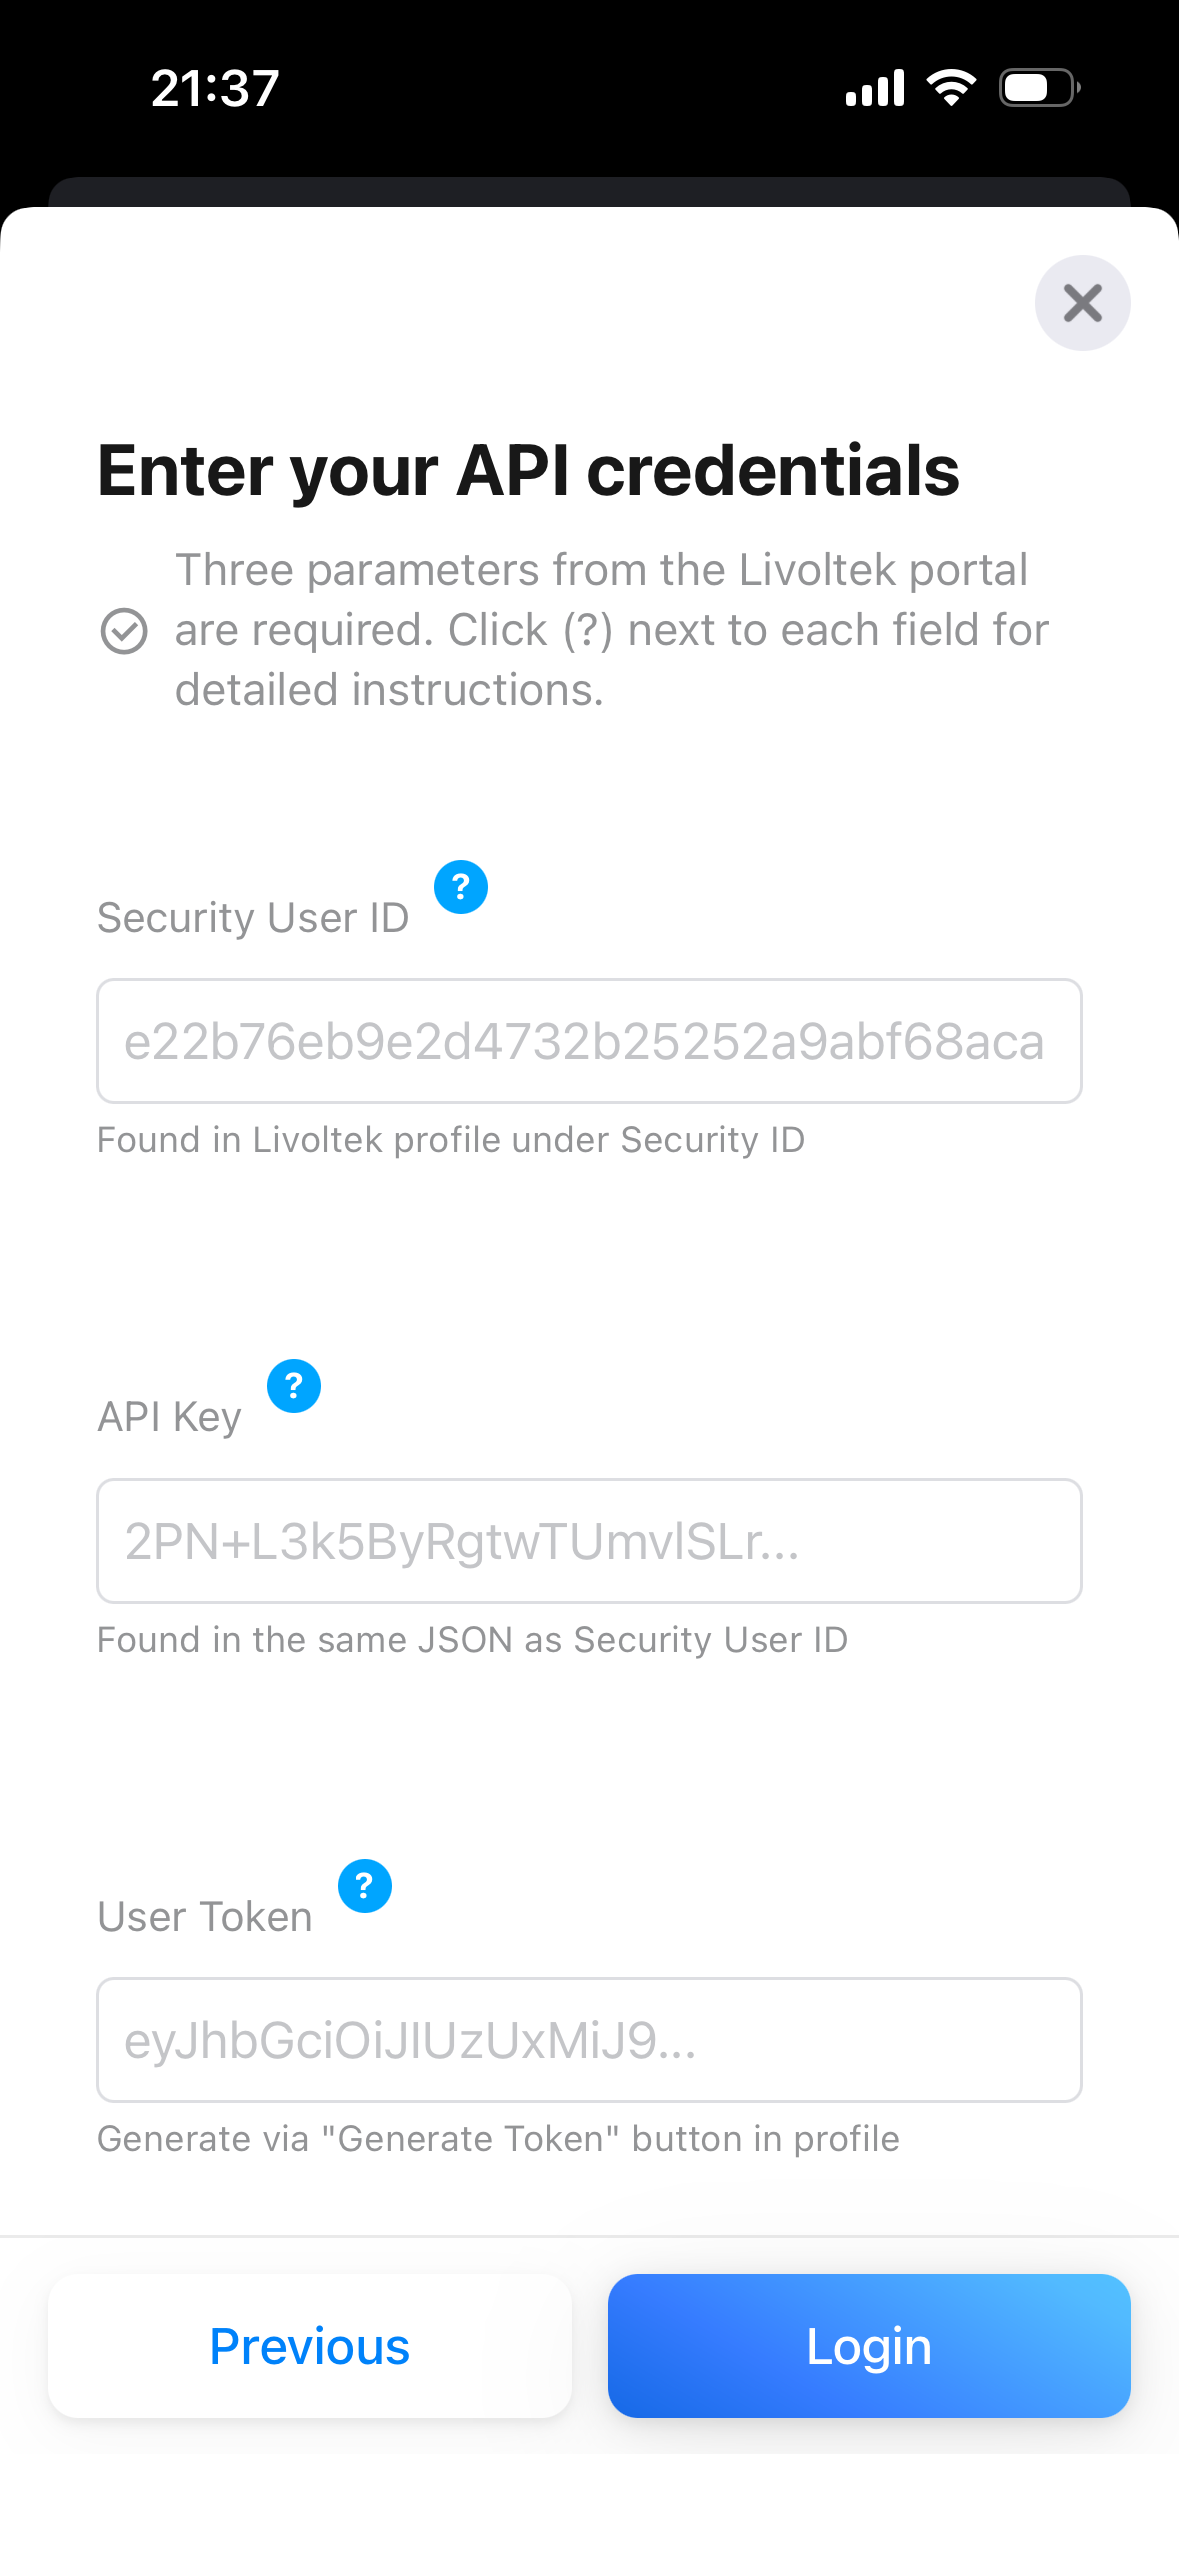
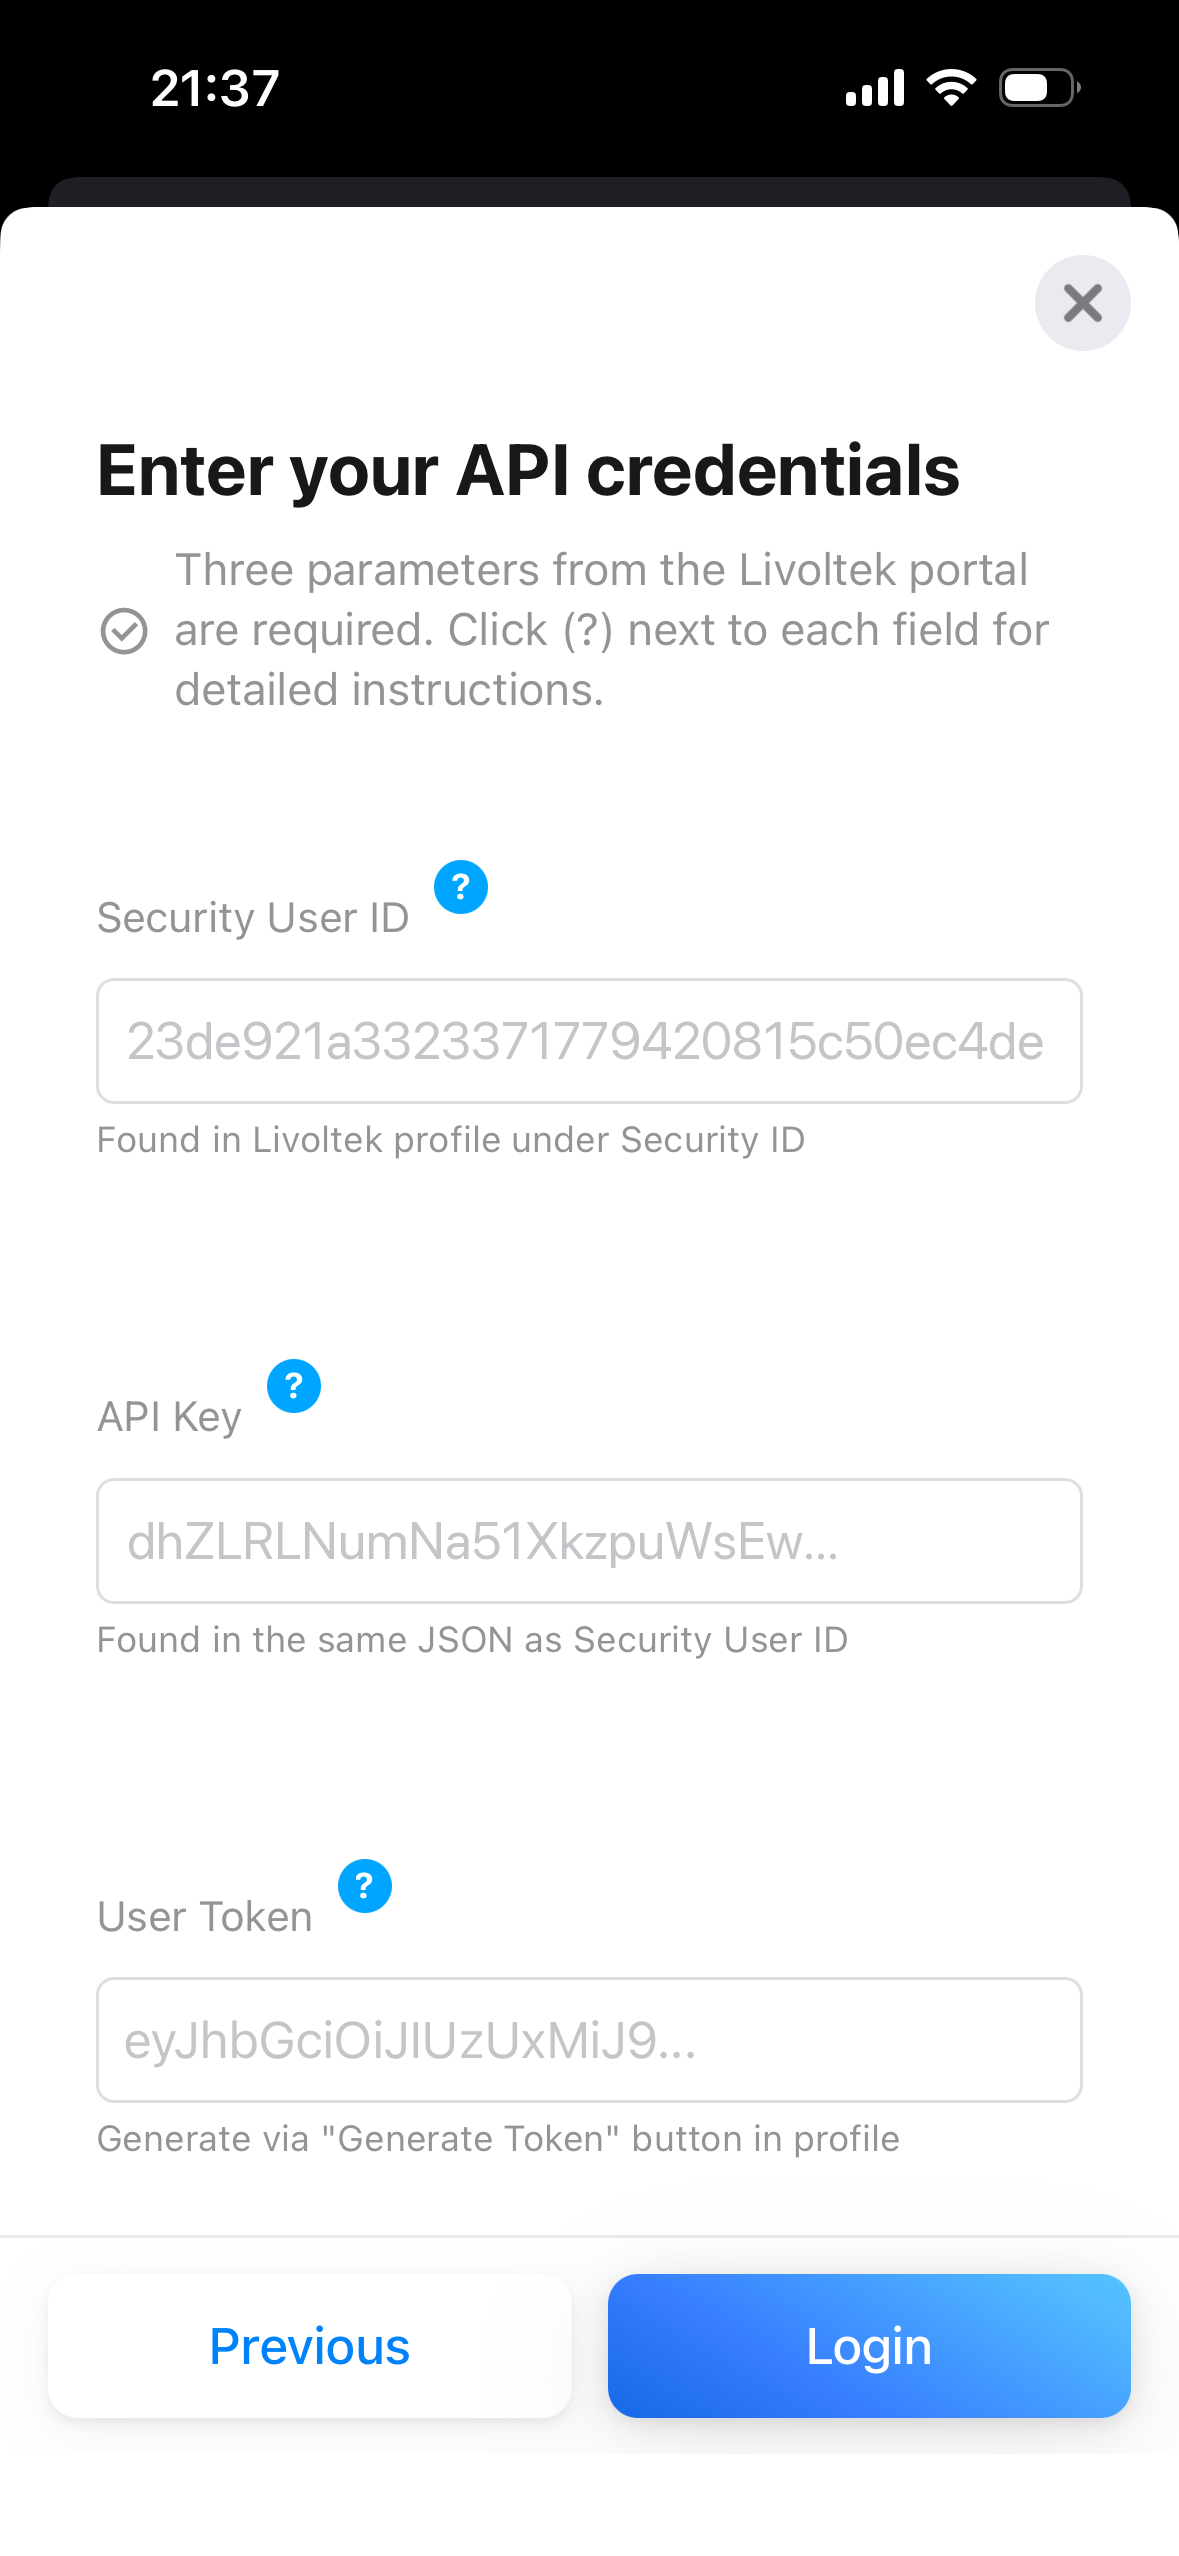
Normalize API key line ending, validate login token, remove real credentials
- The Livoltek API accepts the key only with a CRLF ending; normalizeKey()
  rebuilds the ending however it was pasted (\n, \r\n, \r, escaped or none)
- Login returns HTTP 200 + "SUCCESS" even for bad credentials with an error
  text in place of the token ("null", "user not exit"); only a JWT-shaped
  token is accepted now
- Replace real secuid/key placeholders in the pairing form and screenshot
  with fake values of the same format; update key instructions
- Add tools/peek-api.mjs to dump and record raw API responses

Changed region(s): [[0.1221, 0.4018, 0.8855, 0.4327], [0.0916, 0.5872, 0.6718, 0.6182]]

diff --git a/test/LivoltekAPI.test.ts b/test/LivoltekAPI.test.ts
@@ -1,13 +1,13 @@
 import { afterEach, test } from 'node:test';
 import assert from 'node:assert/strict';
-import { LivoltekAPI, Logger } from '../lib/LivoltekAPI';
+import { LivoltekAPI, Logger, normalizeKey } from '../lib/LivoltekAPI';
 
 const USER_TOKEN = 'secret-user-token';
 const KEY = 'secret-key';
 
 function makeJwt(): string {
-  const payload = Buffer.from(JSON.stringify({ exp: Math.floor(Date.now() / 1000) + 3600 })).toString('base64');
-  return `header.${payload}.signature`;
+  const payload = Buffer.from(JSON.stringify({ exp: Math.floor(Date.now() / 1000) + 3600 })).toString('base64url');
+  return `eyJhbGciOiJIUzI1NiJ9.${payload}.c2lnbmF0dXJl`;
 }
 
 const ACCESS_TOKEN = makeJwt();
@@ -48,12 +48,19 @@ class CapturingLogger implements Logger {
 
 const originalFetch = globalThis.fetch;
 
-function stubFetch(calls: FetchCall[]): void {
+interface LoginReply {
+  message: string | null;
+  data: string;
+}
+
+const LOGIN_OK: LoginReply = { message: 'SUCCESS', data: ACCESS_TOKEN };
+
+function stubFetch(calls: FetchCall[], loginReply: LoginReply = LOGIN_OK): void {
   globalThis.fetch = (async (input: string | URL | Request, init?: RequestInit) => {
     const url = String(input);
     calls.push({ url, init: init ?? {} });
     const body = url.includes('/login')
-      ? { message: 'SUCCESS', code: '200', data: { message: 'SUCCESS', data: ACCESS_TOKEN } }
+      ? { message: 'SUCCESS', code: '200', data: loginReply }
       : { data: POWER_FLOW };
     return new Response(JSON.stringify(body), { status: 200 });
   }) as typeof fetch;
@@ -135,4 +142,51 @@ test('special characters in the site id are encoded and cannot change the reques
     calls[1].url,
     `https://api-eu.livoltek-portal.com:8081/hess/api/site/..%2F1%3Fx%3Dy/curPowerflow?userToken=${USER_TOKEN}`,
   );
+});
+
+const KEY_CORE = '2PN+abc/DEF==';
+
+test('normalizeKey ends the key with exactly one CRLF however the line ending was pasted', () => {
+  for (const pasted of [
+    KEY_CORE,
+    `${KEY_CORE}\n`,
+    `${KEY_CORE}\r\n`,
+    `${KEY_CORE}\r`,
+    `${KEY_CORE}\\n`,
+    `${KEY_CORE}\\r\\n`,
+    `${KEY_CORE}\\r`,
+    `  ${KEY_CORE} \r\n `,
+    `${KEY_CORE}\n\r`,
+    `${KEY_CORE}\r\n\r\n`,
+    `${KEY_CORE}\\n\\r`,
+    `${KEY_CORE}\\r\n`,
+    `${KEY_CORE}\r\\n`,
+    `${KEY_CORE}\\\\r\\\\n`,
+    `${KEY_CORE}\t`,
+  ]) {
+    assert.equal(normalizeKey(pasted), `${KEY_CORE}\r\n`, JSON.stringify(pasted));
+  }
+});
+
+test('login sends the key with a CRLF ending', async () => {
+  const calls: FetchCall[] = [];
+  stubFetch(calls);
+
+  await new LivoltekAPI({
+    secuid: 'secuid', key: `${KEY_CORE}\\n`, userToken: USER_TOKEN, region: 'eu',
+  }, new CapturingLogger()).login();
+
+  assert.equal(JSON.parse(String(calls[0].init.body)).key, `${KEY_CORE}\r\n`);
+});
+
+test('login rejects a "SUCCESS" reply whose token is an error text instead of a JWT', async () => {
+  for (const junk of ['"user not exit"', 'null', '']) {
+    stubFetch([], { message: null, data: junk });
+
+    await assert.rejects(
+      makeApi(new CapturingLogger()).login(),
+      (error: Error) => error.message.includes('Login failed'),
+      `accepted ${JSON.stringify(junk)} as a token`,
+    );
+  }
 });

diff --git a/lib/LivoltekAPI.ts b/lib/LivoltekAPI.ts
@@ -102,6 +102,20 @@ interface BatteryInfoResponse {
 
 const REQUEST_TIMEOUT_MS = 20_000;
 
+// Line endings at the end of the key, real ones or typed as escape sequences ("\n", "\r\n", "\\n", ...)
+const TRAILING_LINE_ENDINGS = /(?:\s|\\+[rn])+$/;
+
+const JWT_FORMAT = /^[\w-]+\.[\w-]+\.[\w-]+$/;
+
+/**
+ * The API accepts the key only with a CRLF ending (verified 2026-11-03: LF, CR, no ending and
+ * escaped sequences are all rejected with "Wrong secuid or key"). The portal JSON shows the key
+ * with "\n" or "\r\n" and users paste it in different forms, so the ending is rebuilt here.
+ */
+export function normalizeKey(key: string): string {
+  return `${key.trim().replace(TRAILING_LINE_ENDINGS, '')}\r\n`;
+}
+
 interface RequestOptions {
   body?: unknown;
   // Adds the access token header and the userToken query parameter
@@ -181,14 +195,10 @@ export class LivoltekAPI {
    */
   async login(): Promise<string> {
     try {
-      // Use key as-is, without converting escape sequences
-      // (conversion causes token to be invalid for subsequent requests)
-      const cleanKey = this.credentials.key.replace('\\n', '\n').replace('\\r', '\r');
-
       const data = await this.request<LoginResponse>('POST', '/hess/api/login', {
         body: {
           secuid: this.credentials.secuid,
-          key: cleanKey,
+          key: normalizeKey(this.credentials.key),
         },
         logResponseBody: false,
       });
@@ -205,15 +215,18 @@ export class LivoltekAPI {
         throw new Error(`Login failed: ${data.data.message}`);
       }
 
-      if (!data.data.data) {
+      // Bad credentials still come back as "SUCCESS" with an error text in place of the token
+      // (e.g. "null", "\"user not exit\""), so only a JWT-shaped token is accepted
+      const token = data.data.data;
+      if (token === null || !JWT_FORMAT.test(token)) {
         this.logger.log('Login API response:', JSON.stringify(data, null, 2));
-        throw new Error('Login failed: No token returned');
+        throw new Error(`Login failed: no valid token returned (${token || 'empty'})`);
       }
 
-      this.token = data.data.data;
+      this.token = token;
       this.logger.log('Successfully logged in to Livoltek API');
 
-      return this.token;
+      return token;
     } catch (error) {
       this.logger.error('Login error:', error);
       throw error;

diff --git a/drivers/livoltek-inverter/pair/login_credentials.html b/drivers/livoltek-inverter/pair/login_credentials.html
@@ -157,7 +157,7 @@
       class="homey-form-input"
       type="text"
       id="secuid"
-      placeholder="e22b76eb9e2d4732b25252a9abf68aca"
+      placeholder="23de921a3323371779420815c50ec4de"
       value=""
     />
     <div class="hint" data-i18n="pair.credentials.secuid_hint">
@@ -171,7 +171,7 @@
       <span class="help-icon">
         ?
         <span class="help-tooltip" data-i18n="pair.credentials.key_help">
-          Use the same instructions as for Security User ID. In the copied JSON find the "key" field and copy its value here. IMPORTANT: Copy the key exactly as is, including all newline characters (\n). These characters are critical for successful authorization!
+          Use the same instructions as for Security User ID. In the copied JSON find the "key" field and copy its value here. The trailing \n or \r\n at the end of the key may be included or left out - the app adds the correct line ending itself.
         </span>
       </span>
     </div>
@@ -179,7 +179,7 @@
       class="homey-form-input"
       type="text"
       id="key"
-      placeholder="2PN+L3k5ByRgtwTUmvlSLr..."
+      placeholder="dhZLRLNumNa51XkzpuWsEw..."
       value=""
     />
     <div class="hint" data-i18n="pair.credentials.key_hint">

diff --git a/README.md b/README.md
@@ -127,10 +127,9 @@ To connect to Livoltek, you need three parameters:
    - If the Operate column is empty, refresh the page and open your profile again
    - System will copy JSON with both `SecurityID` and `Key` fields
 
-2. **API Key** (`кey`)
-   - From the same JSON copied in step 1, find the `Key` field
-   - Copy the Key value exactly as is, including all newline characters (`\n`)
-   - These newline characters are critical for successful authorization!
+2. **API Key** (`key`)
+   - From the same JSON copied in step 1, find the `Key` field and copy its value
+   - The trailing `\n` / `\r\n` may be included or left out: the API requires the key to end with `\r\n`, and the app adds it automatically
 
 3. **User Token** (`userToken`)
    - Open profile → Generate Token → "+ Add" → click **Copy** in the **Operate** column
